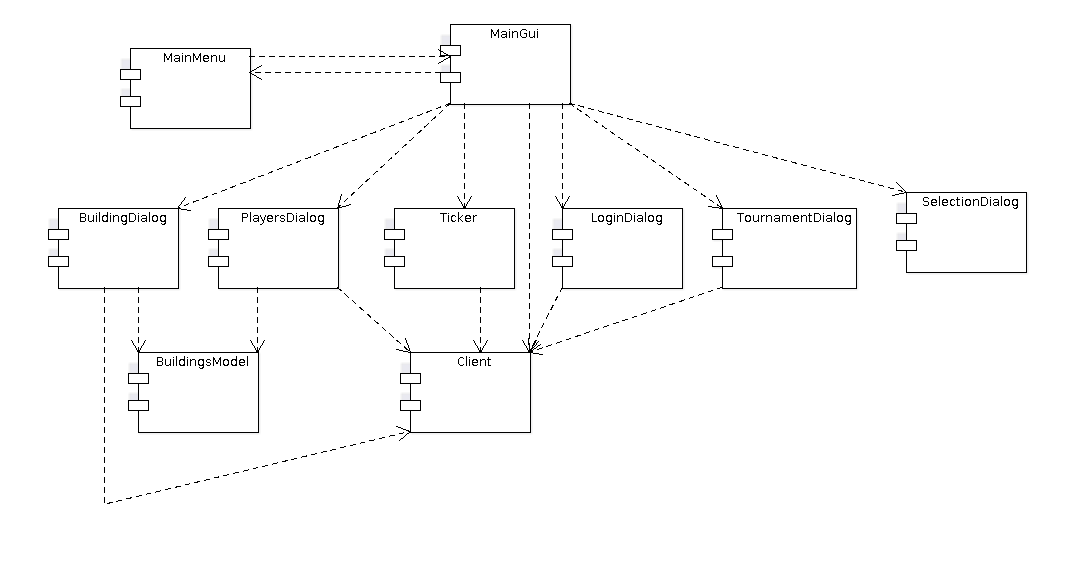
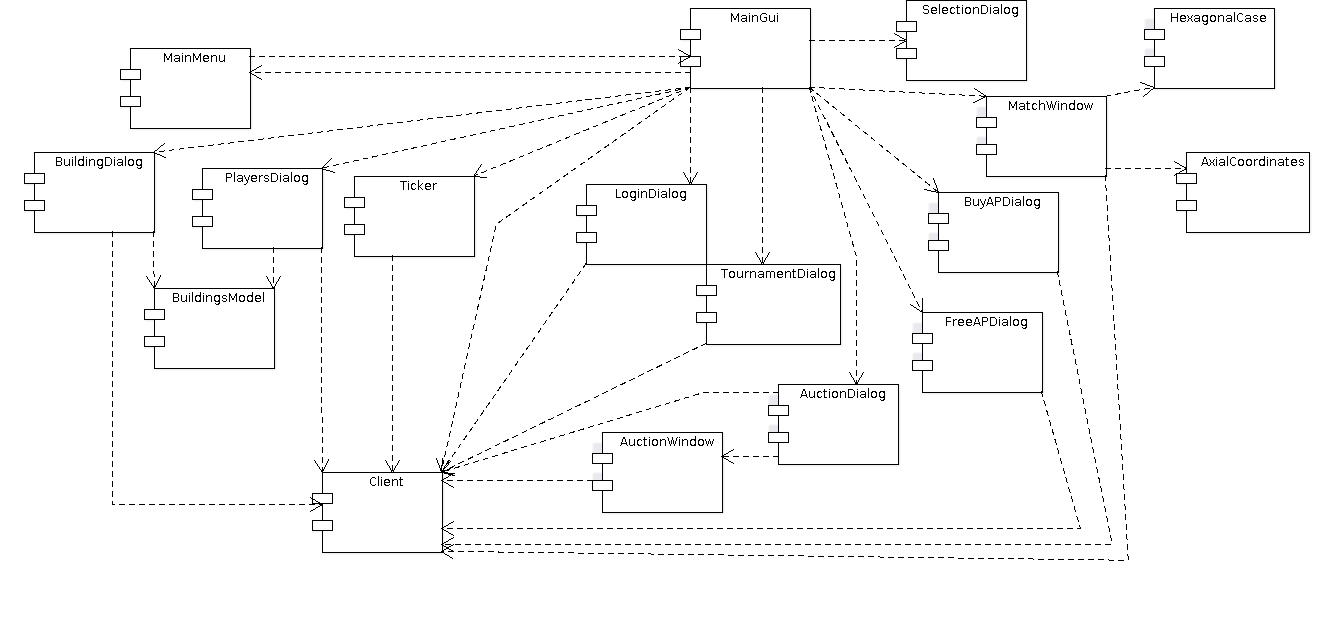
[doc] diag composants

diff --git a/SRD/src/SRD.tex b/SRD/src/SRD.tex
@@ -1255,8 +1255,8 @@ Comme le serveur, le client utilise la fonction select() afin de pouvoir capter 
     Lors de la phase suivante, nous veillerons à dissocier le client (réseau) de la gestion des affichages et entrées clavier du jeu en terminal.
     \begin{figure}[H]
     \center
-    \includegraphics[scale=0.4]{uml/GUIComponents.png}
-    \caption{Diagramme simplifié de composants pour la partie graphique uniquement}
+    \includegraphics[scale=0.3]{uml/GUIComponents.png}
+    \caption{Diagramme de composants pour la partie graphique uniquement}
     \end{figure}
 \newpage
 
